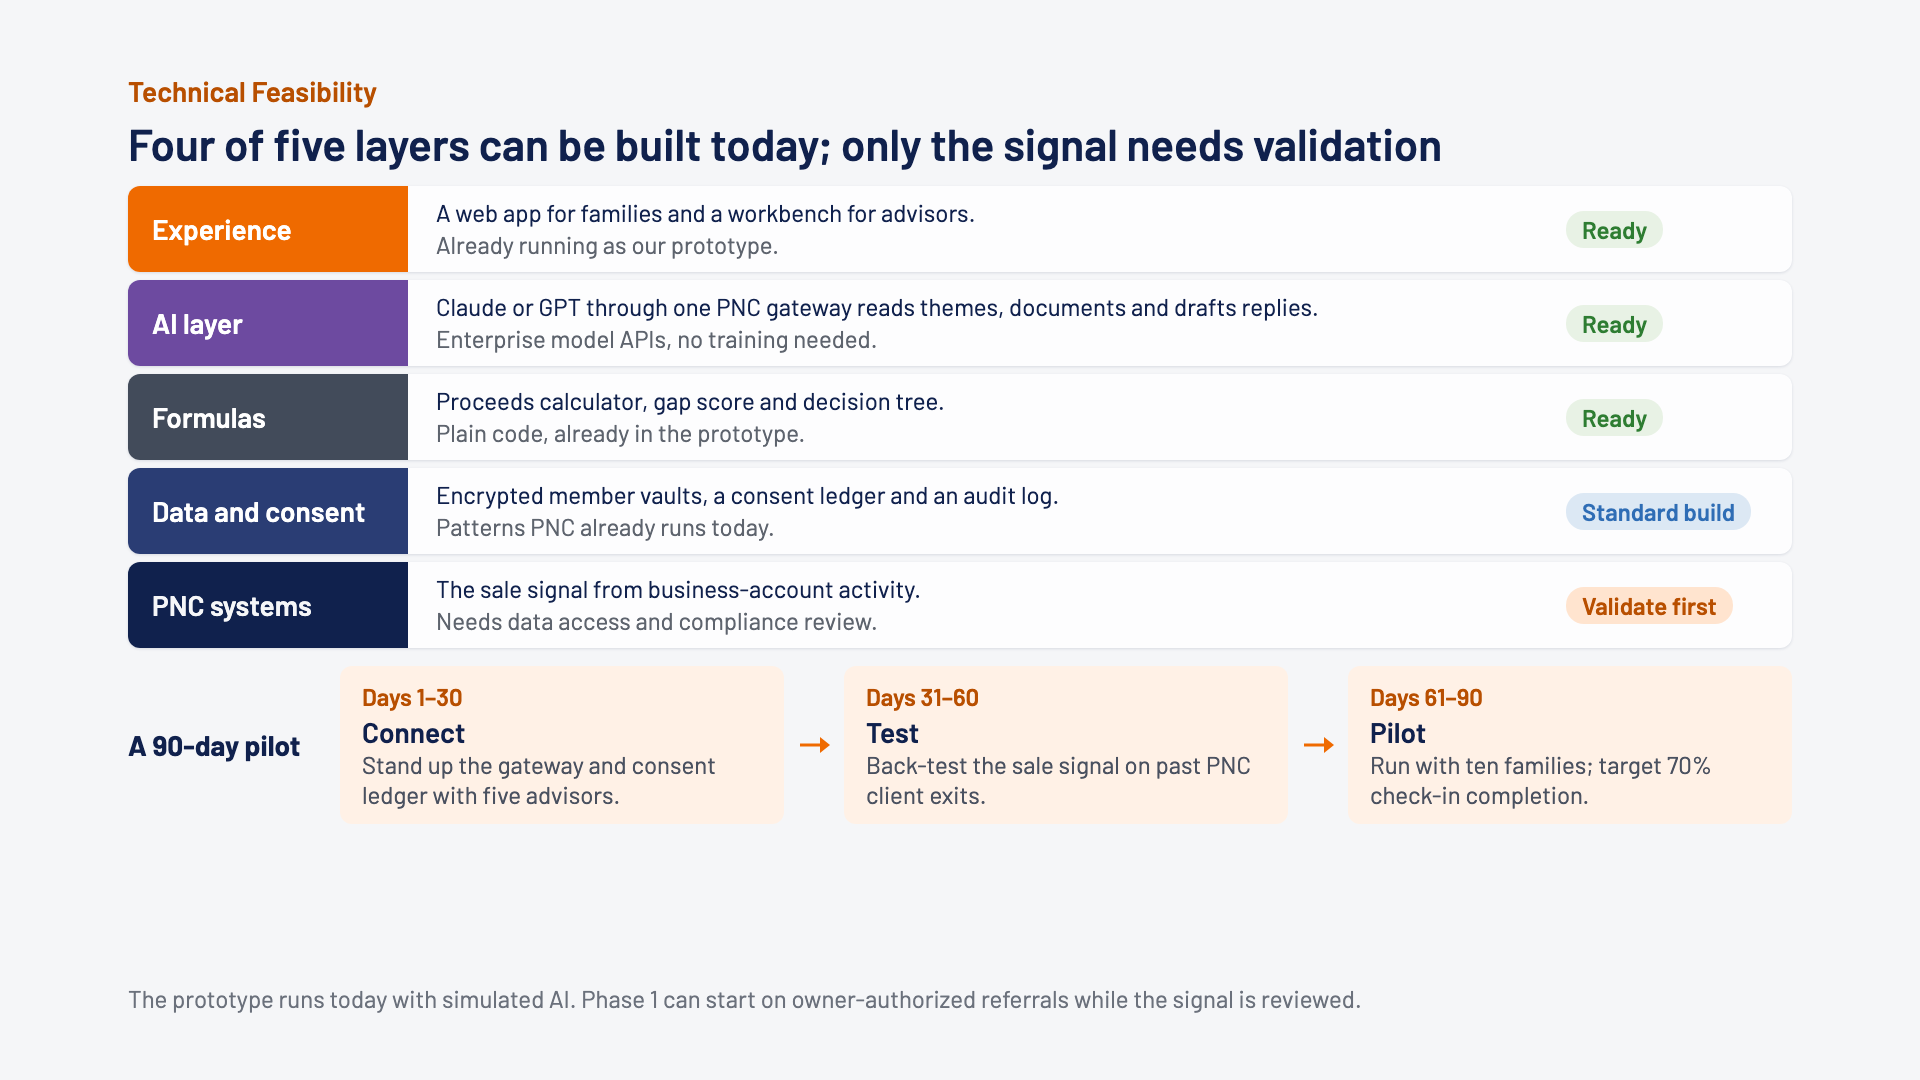
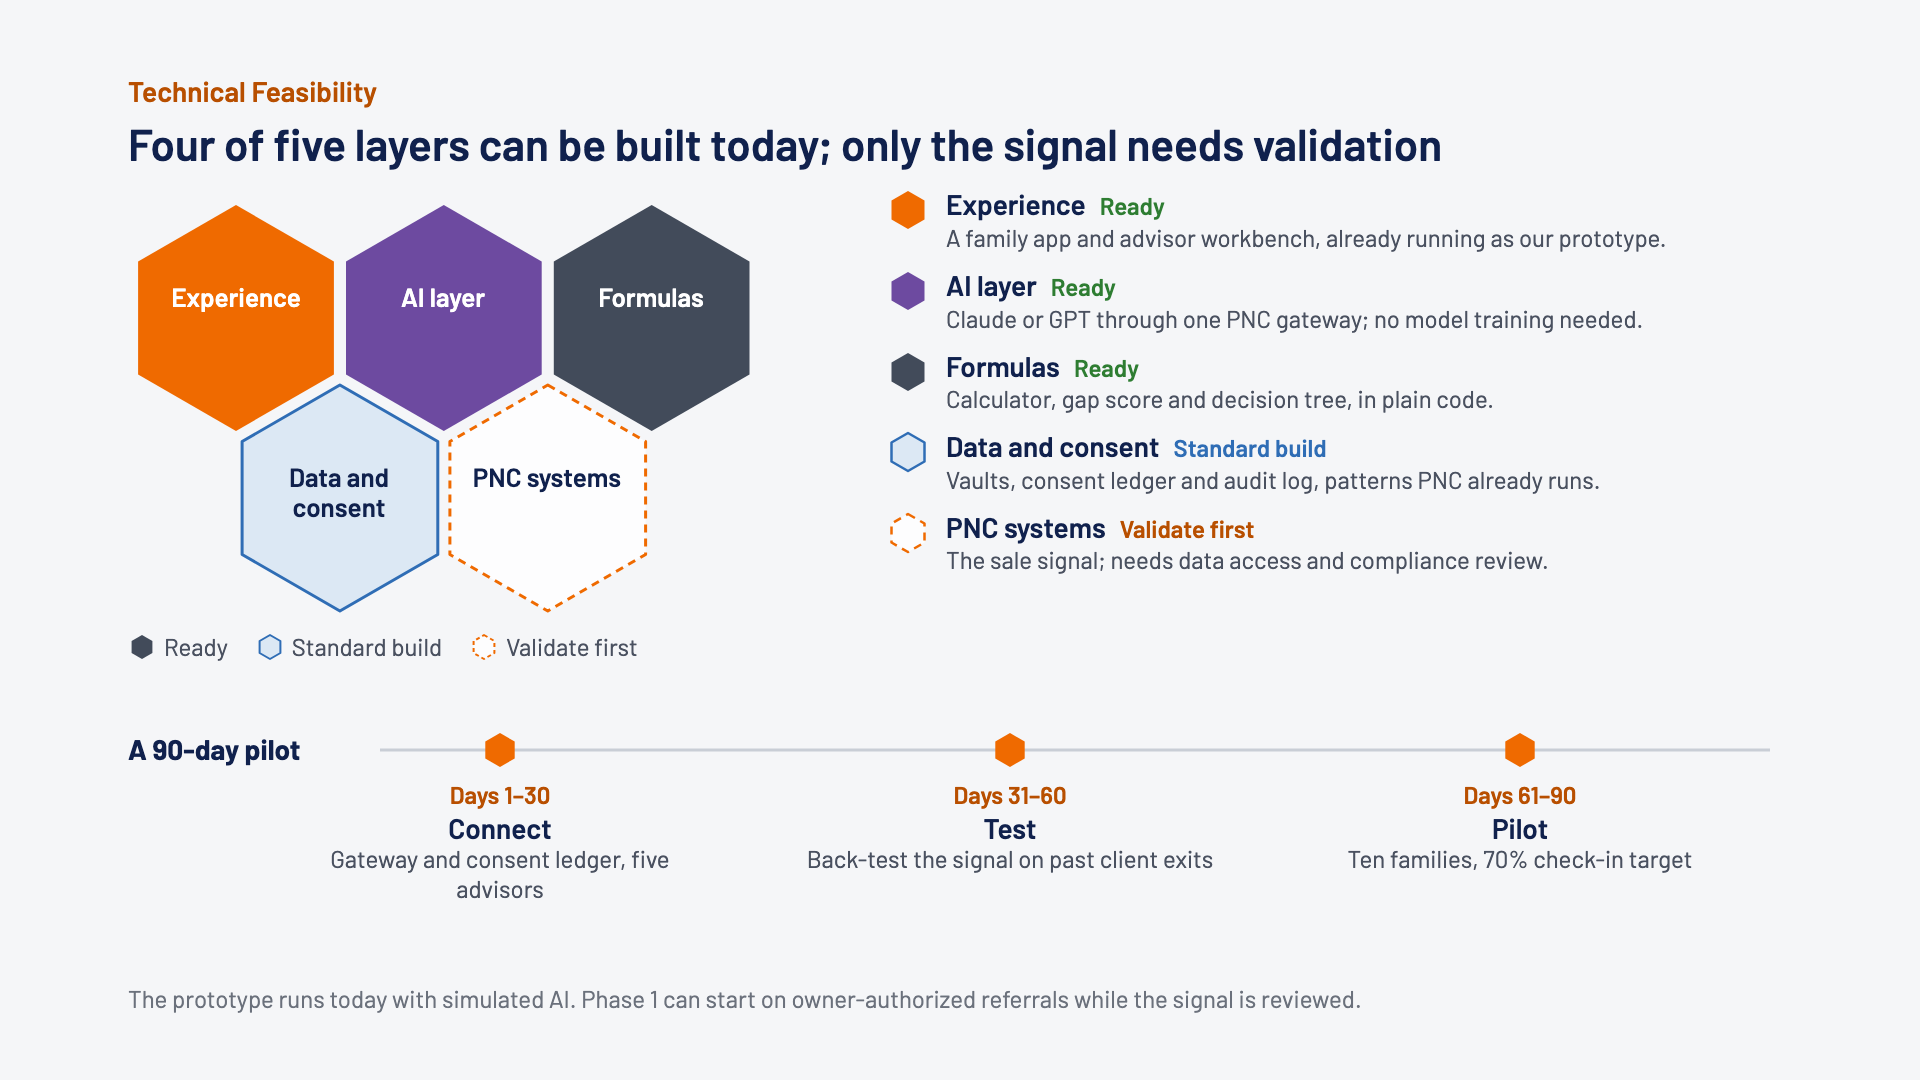
Feasibility slide: hexagon honeycomb where shape shows readiness, hexagon-node pilot timeline

diff --git a/slides/claude_three/slides/feasibility.html b/slides/claude_three/slides/feasibility.html
@@ -1,35 +1,34 @@
-<section id="feasibility" data-transition="fade" style="background:#F5F6F8;color:#10214D;font-family:'Barlow', Arial, sans-serif;padding:72px 128px 160px;display:flex;flex-direction:column;gap:18px">
+<section id="feasibility" data-transition="fade" style="background:#F5F6F8;color:#10214D;font-family:'Barlow', Arial, sans-serif;padding:72px 128px 160px;display:flex;flex-direction:column;gap:20px">
+<svg aria-label="A honeycomb of five layers: Experience, AI layer and Formulas are solid, meaning ready; Data and consent is outlined, a standard build; PNC systems is dashed, to validate first" width="720" height="460" viewBox="116 190 720 460" style="position:absolute;left:116px;top:190px;width:720px;height:460px" xmlns="http://www.w3.org/2000/svg"><polygon points="236.0,205.0 333.9,261.5 333.9,374.5 236.0,431.0 138.1,374.5 138.1,261.5" fill="#EF6A00"/><polygon points="443.8,205.0 541.7,261.5 541.7,374.5 443.8,431.0 346.0,374.5 346.0,261.5" fill="#6D4AA0"/><polygon points="651.7,205.0 749.5,261.5 749.5,374.5 651.7,431.0 553.8,374.5 553.8,261.5" fill="#424B5A"/><polygon points="339.9,385.0 437.8,441.5 437.8,554.5 339.9,611.0 242.1,554.5 242.1,441.5" fill="#DCE8F4" stroke="#2F6DB5" stroke-width="3" stroke-linejoin="round"/><polygon points="547.8,385.0 645.6,441.5 645.6,554.5 547.8,611.0 449.9,554.5 449.9,441.5" fill="#FDFDFE" stroke="#EF6A00" stroke-width="3" stroke-dasharray="8 6" stroke-linejoin="round"/></svg>
+<p style="position:absolute;left:151px;top:282px;width:170px;height:72px;font-size:26px;font-weight:600;line-height:1.15;color:#FFFFFF;text-align:center">Experience</p><p style="position:absolute;left:358px;top:282px;width:170px;height:72px;font-size:26px;font-weight:600;line-height:1.15;color:#FFFFFF;text-align:center">AI layer</p><p style="position:absolute;left:566px;top:282px;width:170px;height:72px;font-size:26px;font-weight:600;line-height:1.15;color:#FFFFFF;text-align:center">Formulas</p><p style="position:absolute;left:254px;top:462px;width:170px;height:72px;font-size:26px;font-weight:600;line-height:1.15;color:#10214D;text-align:center">Data and consent</p><p style="position:absolute;left:462px;top:462px;width:170px;height:72px;font-size:26px;font-weight:600;line-height:1.15;color:#10214D;text-align:center">PNC systems</p>
+<div style="position:absolute;left:128px;top:630px;width:690px;display:flex;flex-direction:row;gap:28px;align-items:center"><div style="display:flex;flex-direction:row;gap:8px;align-items:center"><svg aria-label="" width="28" height="30" viewBox="0 0 28 30" style="width:28px;height:30px" xmlns="http://www.w3.org/2000/svg"><polygon points="14.0,3.0 24.4,9.0 24.4,21.0 14.0,27.0 3.6,21.0 3.6,9.0" fill="#424B5A"/></svg><p style="font-size:24px;color:#4A5160">Ready</p></div><div style="display:flex;flex-direction:row;gap:8px;align-items:center"><svg aria-label="" width="28" height="30" viewBox="0 0 28 30" style="width:28px;height:30px" xmlns="http://www.w3.org/2000/svg"><polygon points="14.0,3.0 24.4,9.0 24.4,21.0 14.0,27.0 3.6,21.0 3.6,9.0" fill="#DCE8F4" stroke="#2F6DB5" stroke-width="2" stroke-linejoin="round"/></svg><p style="font-size:24px;color:#4A5160">Standard build</p></div><div style="display:flex;flex-direction:row;gap:8px;align-items:center"><svg aria-label="" width="28" height="30" viewBox="0 0 28 30" style="width:28px;height:30px" xmlns="http://www.w3.org/2000/svg"><polygon points="14.0,3.0 24.4,9.0 24.4,21.0 14.0,27.0 3.6,21.0 3.6,9.0" fill="#FDFDFE" stroke="#EF6A00" stroke-width="2" stroke-dasharray="4 3" stroke-linejoin="round"/></svg><p style="font-size:24px;color:#4A5160">Validate first</p></div></div>
+<svg aria-label="A 90-day pilot timeline with three steps" width="1430" height="40" viewBox="360 700 1430 40" style="position:absolute;left:360px;top:730px;width:1430px;height:40px" xmlns="http://www.w3.org/2000/svg"><line x1="380" y1="720" x2="1770" y2="720" stroke="#C9CED6" stroke-width="3"/><polygon points="500.0,703.0 514.7,711.5 514.7,728.5 500.0,737.0 485.3,728.5 485.3,711.5" fill="#EF6A00"/><polygon points="1010.0,703.0 1024.7,711.5 1024.7,728.5 1010.0,737.0 995.3,728.5 995.3,711.5" fill="#EF6A00"/><polygon points="1520.0,703.0 1534.7,711.5 1534.7,728.5 1520.0,737.0 1505.3,728.5 1505.3,711.5" fill="#EF6A00"/></svg>
+<p style="position:absolute;left:128px;top:734px;width:220px;font-size:28px;font-weight:700;line-height:1.1;color:#10214D">A 90-day pilot</p>
+<div style="position:absolute;left:290px;top:778px;width:420px;display:flex;flex-direction:column;gap:0px;align-items:center"><p style="font-size:24px;font-weight:600;color:#B84F00;text-align:center">Days 1–30</p><h3 style="font-size:28px;font-weight:600;line-height:1.15;color:#10214D;text-align:center">Connect</h3><p style="font-size:24px;line-height:1.25;color:#4A5160;text-align:center">Gateway and consent ledger, five advisors</p></div><div style="position:absolute;left:800px;top:778px;width:420px;display:flex;flex-direction:column;gap:0px;align-items:center"><p style="font-size:24px;font-weight:600;color:#B84F00;text-align:center">Days 31–60</p><h3 style="font-size:28px;font-weight:600;line-height:1.15;color:#10214D;text-align:center">Test</h3><p style="font-size:24px;line-height:1.25;color:#4A5160;text-align:center">Back-test the signal on past client exits</p></div><div style="position:absolute;left:1310px;top:778px;width:420px;display:flex;flex-direction:column;gap:0px;align-items:center"><p style="font-size:24px;font-weight:600;color:#B84F00;text-align:center">Days 61–90</p><h3 style="font-size:28px;font-weight:600;line-height:1.15;color:#10214D;text-align:center">Pilot</h3><p style="font-size:24px;line-height:1.25;color:#4A5160;text-align:center">Ten families, 70% check-in target</p></div>
 <div style="display:flex;flex-direction:column;gap:8px">
 <p style="font-size:28px;font-weight:600;color:#B84F00">Technical Feasibility</p>
 <h2 style="font-size:44px;font-weight:600;line-height:1.12;color:#10214D">Four of five layers can be built today; only the signal needs validation</h2>
 </div>
-<div style="display:flex;flex-direction:column;gap:8px">
-<div style="display:flex;flex-direction:row;align-items:center;background:#FDFDFE;border-radius:12px;box-shadow:0px 1px 3px rgba(16,33,77,0.12)">
-<p style="width:280px;align-self:stretch;display:flex;align-items:center;font-size:28px;font-weight:600;color:#FFFFFF;background:#EF6A00;padding:14px 24px;border-radius:12px 0px 0px 12px">Experience</p>
-<div style="flex:1;display:flex;flex-direction:column;gap:2px;padding:12px 28px"><p style="font-size:24px;line-height:1.25;color:#10214D">A web app for families and a workbench for advisors.</p><p style="font-size:24px;line-height:1.25;color:#5E646E">Already running as our prototype.</p></div>
-<div style="width:250px;display:flex;flex-direction:row;padding:0px 24px"><p style="font-size:24px;font-weight:600;color:#2E7D32;background:#E8F2E5;padding:2px 16px;border-radius:18px">Ready</p></div>
-</div><div style="display:flex;flex-direction:row;align-items:center;background:#FDFDFE;border-radius:12px;box-shadow:0px 1px 3px rgba(16,33,77,0.12)">
-<p style="width:280px;align-self:stretch;display:flex;align-items:center;font-size:28px;font-weight:600;color:#FFFFFF;background:#6D4AA0;padding:14px 24px;border-radius:12px 0px 0px 12px">AI layer</p>
-<div style="flex:1;display:flex;flex-direction:column;gap:2px;padding:12px 28px"><p style="font-size:24px;line-height:1.25;color:#10214D">Claude or GPT through one PNC gateway reads themes, documents and drafts replies.</p><p style="font-size:24px;line-height:1.25;color:#5E646E">Enterprise model APIs, no training needed.</p></div>
-<div style="width:250px;display:flex;flex-direction:row;padding:0px 24px"><p style="font-size:24px;font-weight:600;color:#2E7D32;background:#E8F2E5;padding:2px 16px;border-radius:18px">Ready</p></div>
-</div><div style="display:flex;flex-direction:row;align-items:center;background:#FDFDFE;border-radius:12px;box-shadow:0px 1px 3px rgba(16,33,77,0.12)">
-<p style="width:280px;align-self:stretch;display:flex;align-items:center;font-size:28px;font-weight:600;color:#FFFFFF;background:#424B5A;padding:14px 24px;border-radius:12px 0px 0px 12px">Formulas</p>
-<div style="flex:1;display:flex;flex-direction:column;gap:2px;padding:12px 28px"><p style="font-size:24px;line-height:1.25;color:#10214D">Proceeds calculator, gap score and decision tree.</p><p style="font-size:24px;line-height:1.25;color:#5E646E">Plain code, already in the prototype.</p></div>
-<div style="width:250px;display:flex;flex-direction:row;padding:0px 24px"><p style="font-size:24px;font-weight:600;color:#2E7D32;background:#E8F2E5;padding:2px 16px;border-radius:18px">Ready</p></div>
-</div><div style="display:flex;flex-direction:row;align-items:center;background:#FDFDFE;border-radius:12px;box-shadow:0px 1px 3px rgba(16,33,77,0.12)">
-<p style="width:280px;align-self:stretch;display:flex;align-items:center;font-size:28px;font-weight:600;color:#FFFFFF;background:#2A3D74;padding:14px 24px;border-radius:12px 0px 0px 12px">Data and consent</p>
-<div style="flex:1;display:flex;flex-direction:column;gap:2px;padding:12px 28px"><p style="font-size:24px;line-height:1.25;color:#10214D">Encrypted member vaults, a consent ledger and an audit log.</p><p style="font-size:24px;line-height:1.25;color:#5E646E">Patterns PNC already runs today.</p></div>
-<div style="width:250px;display:flex;flex-direction:row;padding:0px 24px"><p style="font-size:24px;font-weight:600;color:#2F6DB5;background:#DCE8F4;padding:2px 16px;border-radius:18px">Standard build</p></div>
-</div><div style="display:flex;flex-direction:row;align-items:center;background:#FDFDFE;border-radius:12px;box-shadow:0px 1px 3px rgba(16,33,77,0.12)">
-<p style="width:280px;align-self:stretch;display:flex;align-items:center;font-size:28px;font-weight:600;color:#F5F6F8;background:#10214D;padding:14px 24px;border-radius:12px 0px 0px 12px">PNC systems</p>
-<div style="flex:1;display:flex;flex-direction:column;gap:2px;padding:12px 28px"><p style="font-size:24px;line-height:1.25;color:#10214D">The sale signal from business-account activity.</p><p style="font-size:24px;line-height:1.25;color:#5E646E">Needs data access and compliance review.</p></div>
-<div style="width:250px;display:flex;flex-direction:row;padding:0px 24px"><p style="font-size:24px;font-weight:600;color:#B84F00;background:#FFE4CF;padding:2px 16px;border-radius:18px">Validate first</p></div>
+<div style="display:flex;flex-direction:row">
+<div style="width:760px"></div>
+<div style="flex:1;display:flex;flex-direction:column;gap:16px">
+<div style="display:flex;flex-direction:row;gap:18px;align-items:flex-start"><svg aria-label="" width="40" height="44" viewBox="0 0 40 44" style="width:40px;height:44px" xmlns="http://www.w3.org/2000/svg"><polygon points="20.0,3.0 36.5,12.5 36.5,31.5 20.0,41.0 3.5,31.5 3.5,12.5" fill="#EF6A00"/></svg>
+<div style="flex:1;display:flex;flex-direction:column;gap:0px"><div style="display:flex;flex-direction:row;gap:14px;align-items:baseline"><h3 style="font-size:28px;font-weight:600;line-height:1.15;color:#10214D">Experience</h3><p style="font-size:24px;font-weight:600;color:#2E7D32">Ready</p></div>
+<p style="font-size:24px;line-height:1.25;color:#4A5160">A family app and advisor workbench, already running as our prototype.</p></div></div>
+<div style="display:flex;flex-direction:row;gap:18px;align-items:flex-start"><svg aria-label="" width="40" height="44" viewBox="0 0 40 44" style="width:40px;height:44px" xmlns="http://www.w3.org/2000/svg"><polygon points="20.0,3.0 36.5,12.5 36.5,31.5 20.0,41.0 3.5,31.5 3.5,12.5" fill="#6D4AA0"/></svg>
+<div style="flex:1;display:flex;flex-direction:column;gap:0px"><div style="display:flex;flex-direction:row;gap:14px;align-items:baseline"><h3 style="font-size:28px;font-weight:600;line-height:1.15;color:#10214D">AI layer</h3><p style="font-size:24px;font-weight:600;color:#2E7D32">Ready</p></div>
+<p style="font-size:24px;line-height:1.25;color:#4A5160">Claude or GPT through one PNC gateway; no model training needed.</p></div></div>
+<div style="display:flex;flex-direction:row;gap:18px;align-items:flex-start"><svg aria-label="" width="40" height="44" viewBox="0 0 40 44" style="width:40px;height:44px" xmlns="http://www.w3.org/2000/svg"><polygon points="20.0,3.0 36.5,12.5 36.5,31.5 20.0,41.0 3.5,31.5 3.5,12.5" fill="#424B5A"/></svg>
+<div style="flex:1;display:flex;flex-direction:column;gap:0px"><div style="display:flex;flex-direction:row;gap:14px;align-items:baseline"><h3 style="font-size:28px;font-weight:600;line-height:1.15;color:#10214D">Formulas</h3><p style="font-size:24px;font-weight:600;color:#2E7D32">Ready</p></div>
+<p style="font-size:24px;line-height:1.25;color:#4A5160">Calculator, gap score and decision tree, in plain code.</p></div></div>
+<div style="display:flex;flex-direction:row;gap:18px;align-items:flex-start"><svg aria-label="" width="40" height="44" viewBox="0 0 40 44" style="width:40px;height:44px" xmlns="http://www.w3.org/2000/svg"><polygon points="20.0,3.0 36.5,12.5 36.5,31.5 20.0,41.0 3.5,31.5 3.5,12.5" fill="#DCE8F4" stroke="#2F6DB5" stroke-width="2.5" stroke-linejoin="round"/></svg>
+<div style="flex:1;display:flex;flex-direction:column;gap:0px"><div style="display:flex;flex-direction:row;gap:14px;align-items:baseline"><h3 style="font-size:28px;font-weight:600;line-height:1.15;color:#10214D">Data and consent</h3><p style="font-size:24px;font-weight:600;color:#2F6DB5">Standard build</p></div>
+<p style="font-size:24px;line-height:1.25;color:#4A5160">Vaults, consent ledger and audit log, patterns PNC already runs.</p></div></div>
+<div style="display:flex;flex-direction:row;gap:18px;align-items:flex-start"><svg aria-label="" width="40" height="44" viewBox="0 0 40 44" style="width:40px;height:44px" xmlns="http://www.w3.org/2000/svg"><polygon points="20.0,3.0 36.5,12.5 36.5,31.5 20.0,41.0 3.5,31.5 3.5,12.5" fill="#FDFDFE" stroke="#EF6A00" stroke-width="2.5" stroke-dasharray="8 6" stroke-linejoin="round"/></svg>
+<div style="flex:1;display:flex;flex-direction:column;gap:0px"><div style="display:flex;flex-direction:row;gap:14px;align-items:baseline"><h3 style="font-size:28px;font-weight:600;line-height:1.15;color:#10214D">PNC systems</h3><p style="font-size:24px;font-weight:600;color:#B84F00">Validate first</p></div>
+<p style="font-size:24px;line-height:1.25;color:#4A5160">The sale signal; needs data access and compliance review.</p></div></div>
 </div>
-</div>
-<div style="display:flex;flex-direction:row;gap:12px;align-items:stretch">
-<div style="width:200px;display:flex;flex-direction:column;justify-content:center"><p style="font-size:28px;font-weight:700;line-height:1.1;color:#10214D">A 90-day pilot</p></div>
-<div style="flex:1;display:flex;flex-direction:column;gap:2px;padding:14px 22px;background:#FFF1E6;border-radius:12px"><p style="font-size:24px;font-weight:600;color:#B84F00">Days 1–30</p><h3 style="font-size:28px;font-weight:600;line-height:1.15;color:#10214D">Connect</h3><p style="font-size:24px;line-height:1.25;color:#4A5160">Stand up the gateway and consent ledger with five advisors.</p></div><svg aria-label="then" width="36" height="36" viewBox="0 0 36 36" style="width:36px;height:36px;align-self:center" xmlns="http://www.w3.org/2000/svg"><path d="M4 18 H26" stroke="#EF6A00" stroke-width="3"/><polygon points="24 10 34 18 24 26" fill="#EF6A00"/></svg><div style="flex:1;display:flex;flex-direction:column;gap:2px;padding:14px 22px;background:#FFF1E6;border-radius:12px"><p style="font-size:24px;font-weight:600;color:#B84F00">Days 31–60</p><h3 style="font-size:28px;font-weight:600;line-height:1.15;color:#10214D">Test</h3><p style="font-size:24px;line-height:1.25;color:#4A5160">Back-test the sale signal on past PNC client exits.</p></div><svg aria-label="then" width="36" height="36" viewBox="0 0 36 36" style="width:36px;height:36px;align-self:center" xmlns="http://www.w3.org/2000/svg"><path d="M4 18 H26" stroke="#EF6A00" stroke-width="3"/><polygon points="24 10 34 18 24 26" fill="#EF6A00"/></svg><div style="flex:1;display:flex;flex-direction:column;gap:2px;padding:14px 22px;background:#FFF1E6;border-radius:12px"><p style="font-size:24px;font-weight:600;color:#B84F00">Days 61–90</p><h3 style="font-size:28px;font-weight:600;line-height:1.15;color:#10214D">Pilot</h3><p style="font-size:24px;line-height:1.25;color:#4A5160">Run with ten families; target 70% check-in completion.</p></div>
 </div>
 <p style="position:absolute;left:128px;bottom:64px;width:1664px;font-size:24px;color:#6B717C">The prototype runs today with simulated AI. Phase 1 can start on owner-authorized referrals while the signal is reviewed.</p>
-<aside>Read the stack from the top. The experience already runs as our prototype, on phones and desktops. The AI layer uses enterprise model APIs, Claude or GPT behind one PNC gateway, with no model training required. The formulas, the proceeds calculator, the gap score and the decision tree, are plain code and already work in the prototype. Data and consent is a standard build: encrypted member vaults, a consent ledger and an audit log, all patterns PNC already runs. Only one layer needs validation first: using business-account activity as a sale signal requires data access and a compliance review. That is why the pilot is staged. In the first thirty days we connect the gateway and consent ledger with five advisors. In days thirty-one to sixty we back-test the signal on past client exits. In the last thirty days we run with ten families and aim for seventy percent check-in completion. Phase one does not depend on the signal: it can start on referrals the owner authorizes.</aside>
+<aside>Each hexagon is one layer of the stack, and its shape shows how ready it is. Solid means ready today: the experience already runs as our prototype; the AI layer uses enterprise model APIs, Claude or GPT behind one PNC gateway, with no model training; and the formulas are plain code already in the prototype. Outlined means a standard build: encrypted member vaults, a consent ledger and an audit log, all patterns PNC already runs. Dashed means validate first: using business-account activity as a sale signal needs data access and a compliance review. That is why the pilot is staged over ninety days. First we connect the gateway and consent ledger with five advisors. Then we back-test the signal on past client exits. Then we run with ten families and aim for seventy percent check-in completion. Phase one does not depend on the signal: it can start on referrals the owner authorizes.</aside>
 </section>
